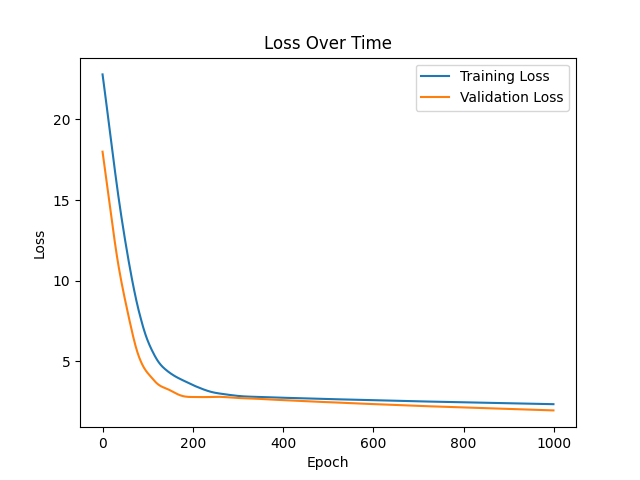
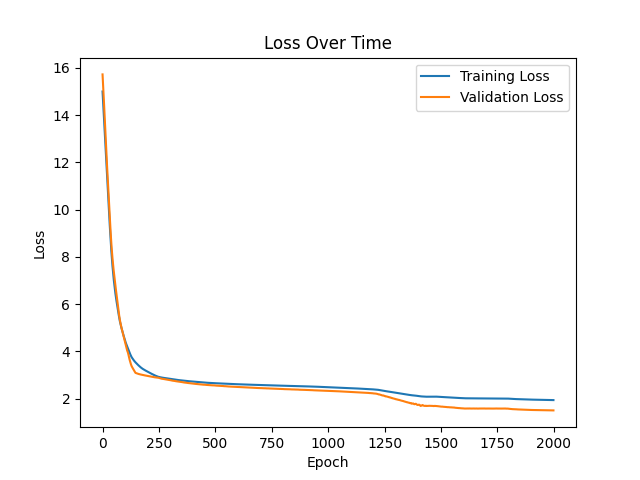
Quantize to 10-bit accuracy, introduce resistor mapping

diff --git a/resistor_mapping.py b/resistor_mapping.py
@@ -1,0 +1,31 @@
+import pandas as pd
+
+def weight_to_resistor(value, min_resistor=300, max_resistor=100300):
+    """
+    Maps a quantized weight value (0 to 1) directly to a resistor value within the specified range,
+    rounding to the nearest 100Ω.
+    """
+    resistor_value = value * (max_resistor - min_resistor) + min_resistor
+    return round(resistor_value / 100) * 100
+
+def process_csv_files(csv_files, min_resistor=300, max_resistor=100300):
+    """
+    Reads the CSV files containing the weights and biases and maps the values to resistor values,
+    rounding to the nearest integer. Assumes CSV files do not have header rows.
+    """
+    for file in csv_files:
+        df = pd.read_csv(file, header=None)
+
+        resistor_df = df.applymap(
+            lambda x: round(weight_to_resistor(x, min_resistor, max_resistor))
+        )
+        resistor_df.to_csv(f"resistor_values_{file}", header=None, index=False)
+
+csv_files = [
+    "layer_0_weights.csv",
+    "layer_0_biases.csv",
+    "layer_2_weights.csv",
+    "layer_2_biases.csv",
+]
+
+process_csv_files(csv_files)

diff --git a/run_mlp.py b/run_mlp.py
@@ -44,13 +44,13 @@ model = MLP(
     input_size=input_size,
     hidden_sizes=[8],
     num_classes=num_classes,
-    num_decimals=4,
+    num_decimals=3,
 )
 criterion = nn.CrossEntropyLoss()
 optimizer = torch.optim.Adam(model.parameters(), lr=0.001)
 
 train_loss_history, val_loss_history, val_accuracy_history = train(
-    model, criterion, optimizer, train_loader, val_loader, epochs=1000
+    model, criterion, optimizer, train_loader, val_loader, epochs=2000
 )
 
 # Save the model state dictionary
